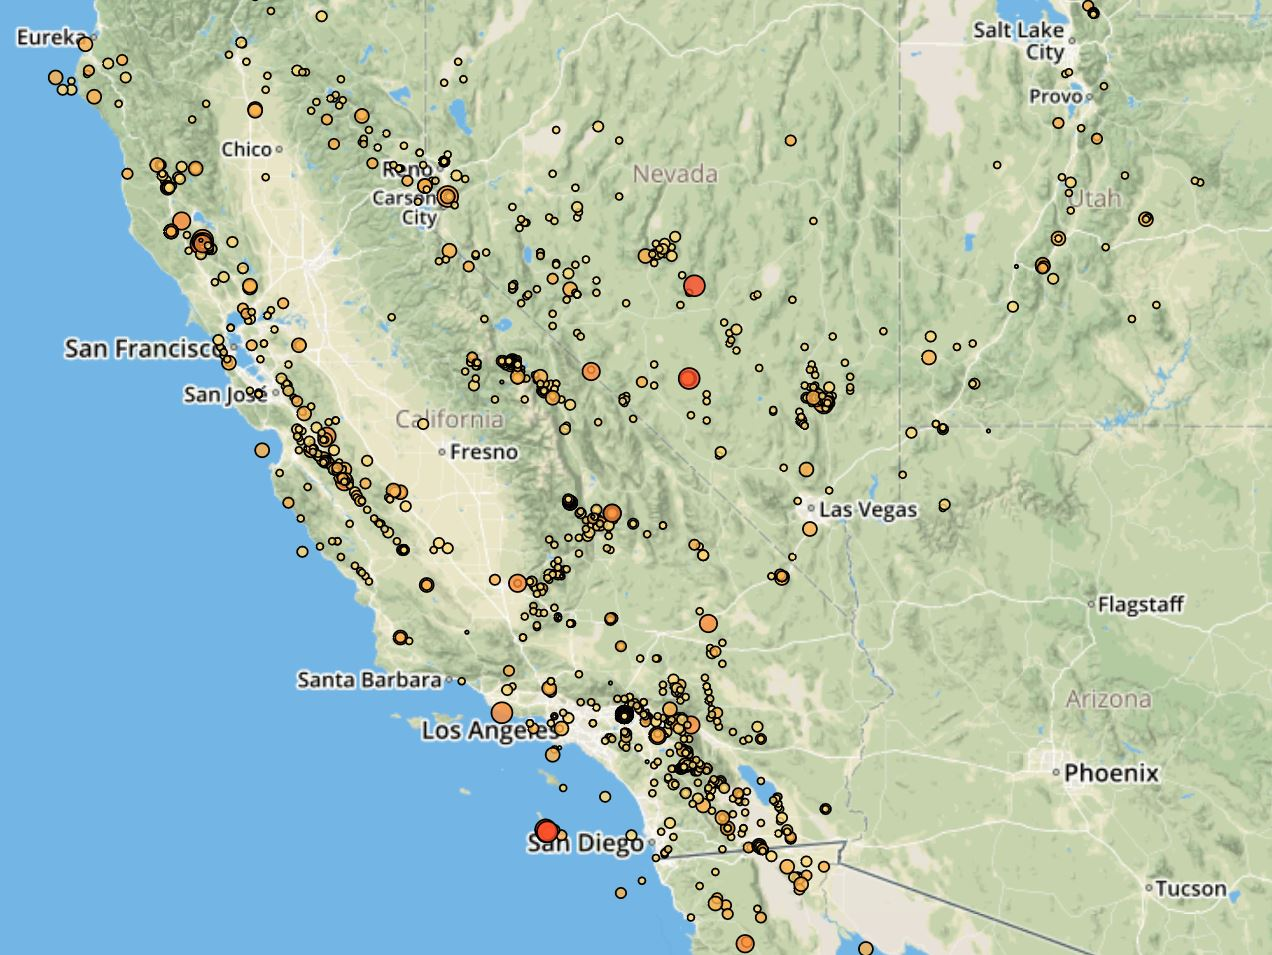
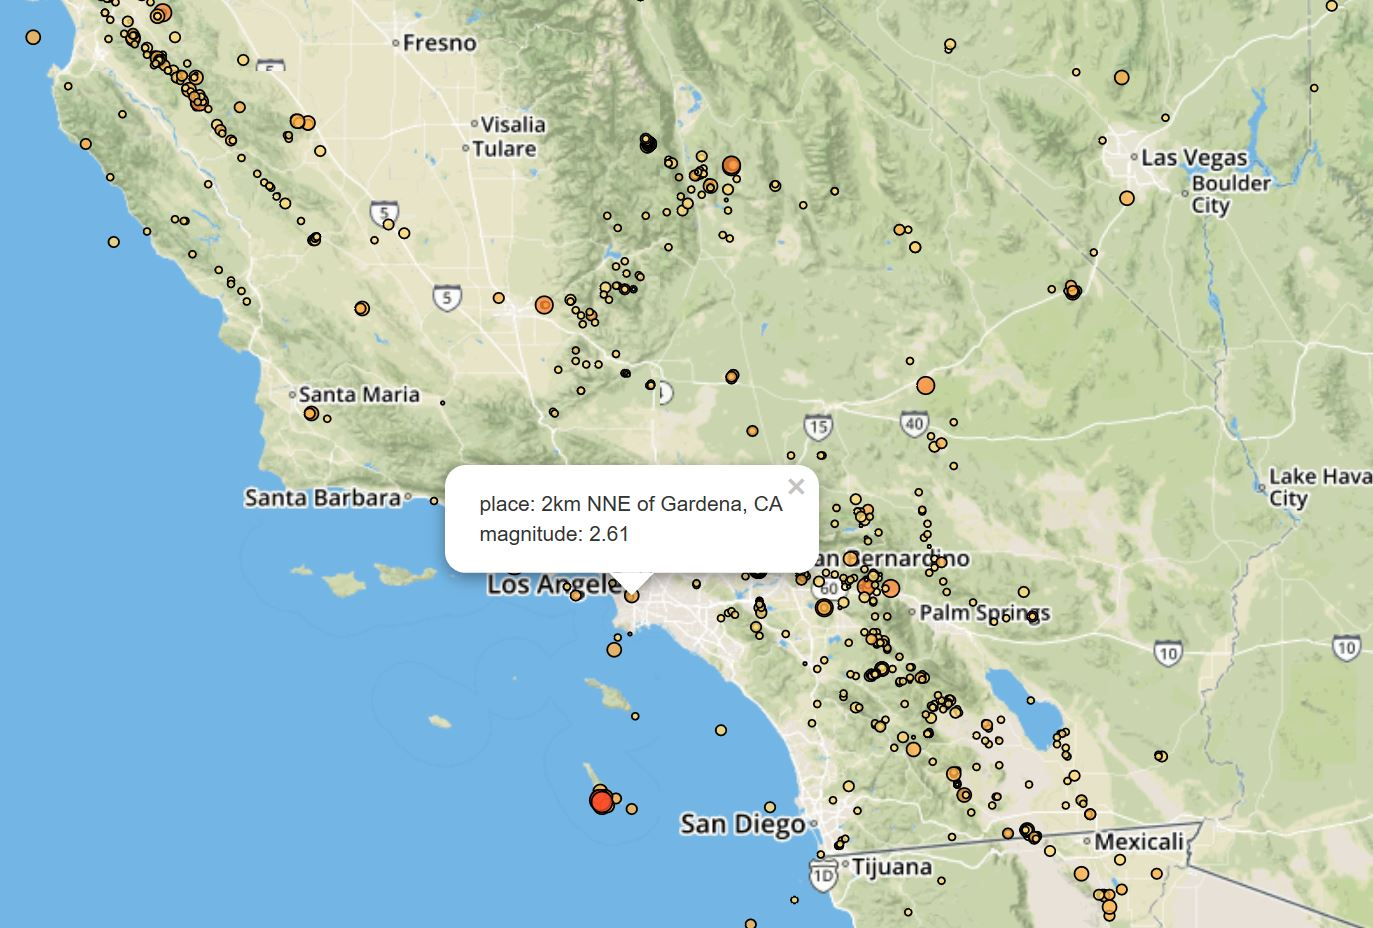
Update ReadMe

diff --git a/README.md b/README.md
@@ -4,3 +4,22 @@
 The USGS is responsible for providing scientific data about natural hazards, the health of our ecosystems and environment; and the impacts of climate and land-use change. Their scientists develop new methods and tools to supply timely, relevant, and useful information about the Earth and its processes. As a new hire, you will be helping them out with an exciting new project!
 
 The USGS is interested in building a new set of tools that will allow them visualize their earthquake data. They collect a massive amount of data from all over the world each day, but they lack a meaningful way of displaying it. Their hope is that being able to visualize their data will allow them to better educate the public and other government organizations (and hopefully secure more funding..) on issues facing our planet.
+
+This project is visualizing an earthquake data set. The USGS provides earthquake data in a number of different formats, updated every 5 minutes. Visit the [USGS GeoJSON Feed](http://earthquake.usgs.gov/earthquakes/feed/v1.0/geojson.php) page and pick a data set to visualize.
+
+
+## Mapping Visulization
+
+
+1. Markers reflect the magnitude of the earthquake in their size and color. Earthquakes with higher magnitudes should appear larger and darker in color.
+   
+   ![3-Data](images/Geo_mapping_global.JPG)
+
+
+2. Data markers include popups that provide additional information about the earthquake when a marker is clicked.
+
+   ![4-JSON](images/Geo_mapping_CA.JPG)
+
+
+
+- - -
